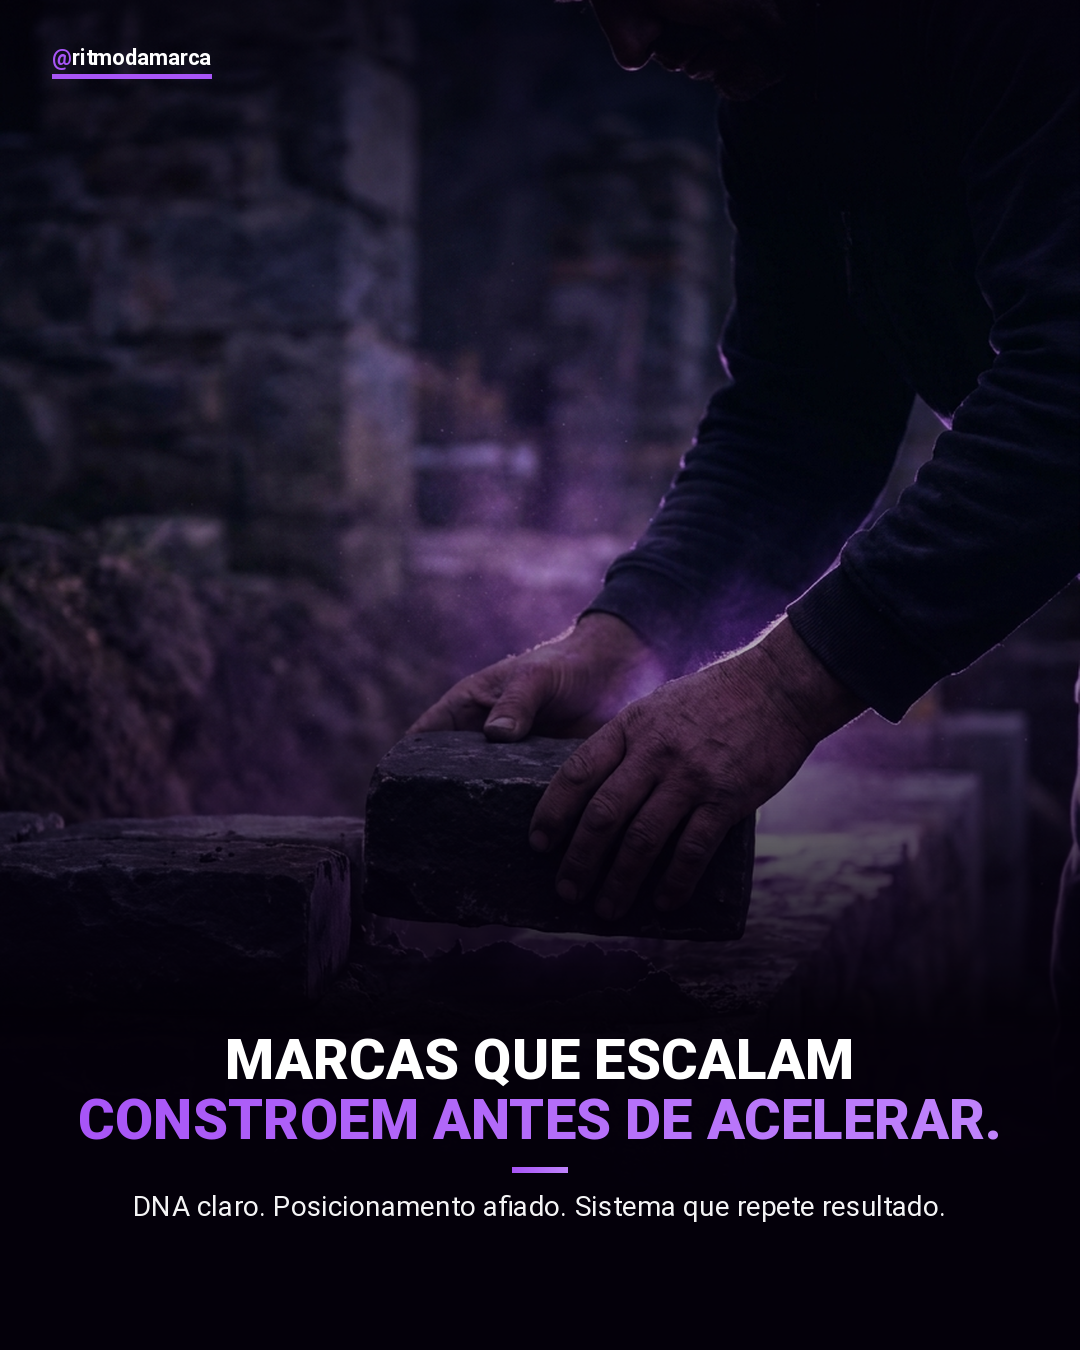
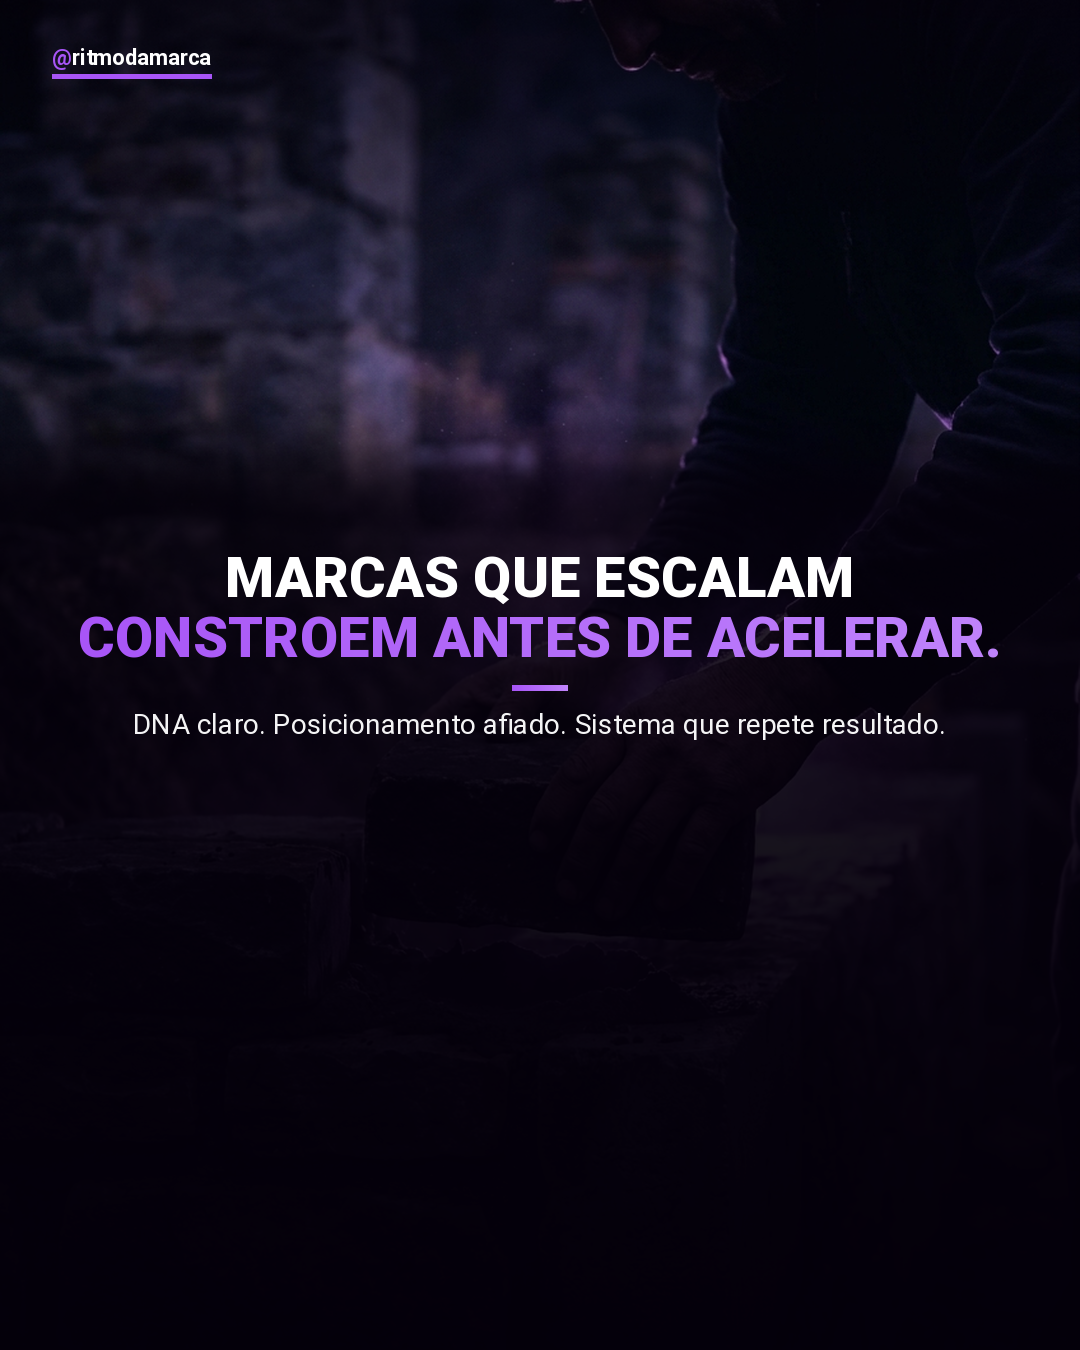
fix: repositiona texto acima e adiciona painel escuro explícito
Texto centralizado verticalmente (~48% do slide), painel escuro
sólido com fade nas bordas garante leitura independente do fundo.

https://claude.ai/code/session_01S8Fw6EGhnFoALdeAFfWcbf

Changed region(s): [[0.0, 0.3111, 1.0, 0.6844], [0.0611, 0.7467, 0.9167, 0.9022], [0.4889, 0.6844, 0.55, 0.7156]]

diff --git a/carrossel-ritmo/build_ritmo.py b/carrossel-ritmo/build_ritmo.py
@@ -122,27 +122,24 @@ def smoky_purple(img, top_s=160, bot_s=255, top_r=320, bot_r=800, blur=60):
     base = img.convert("RGBA"); base.alpha_composite(ov)
     return base.convert("RGB")
 
-def darken_zone(canvas, y_top):
-    """Dois passes: gradiente suave + camada sólida escura na zona de texto."""
-    IH, IW = canvas.size[1], canvas.size[0]
-    t = max(y_top - 200, 0)
+def text_panel(canvas, y_top, y_bot):
+    """Painel escuro sólido com fade nas bordas — garante leitura em qualquer fundo."""
+    IW = canvas.size[0]
+    pad = 80   # quantos px o fade se estende acima de y_top
 
-    # Passe 1: gradiente suave de cima para baixo
-    tz = Image.new("RGBA", canvas.size, (0,0,0,0))
-    dz = ImageDraw.Draw(tz)
-    for iy in range(t, IH):
-        a = int(235 * ((iy-t)/max(1,IH-t))**0.45)
-        dz.line([(0,iy),(IW,iy)], fill=(4,0,10,a))
-    tz = tz.filter(ImageFilter.GaussianBlur(40))
-    base = canvas.convert("RGBA"); base.alpha_composite(tz)
-    canvas = base.convert("RGB")
+    layer = Image.new("RGBA", canvas.size, (0,0,0,0))
+    dl    = ImageDraw.Draw(layer)
 
-    # Passe 2: retângulo sólido com bordas suavizadas na zona do texto
-    pad = Image.new("RGBA", canvas.size, (0,0,0,0))
-    dp  = ImageDraw.Draw(pad)
-    dp.rectangle([0, y_top - 20, IW, IH], fill=(4, 0, 10, 200))
-    pad = pad.filter(ImageFilter.GaussianBlur(24))
-    base = canvas.convert("RGBA"); base.alpha_composite(pad)
+    # área central totalmente sólida
+    dl.rectangle([0, y_top, IW, y_bot], fill=(4, 0, 10, 210))
+
+    # fade de entrada (acima)
+    for iy in range(pad):
+        a = int(210 * (iy / pad) ** 1.6)
+        dl.line([(0, y_top - pad + iy), (IW, y_top - pad + iy)], fill=(4, 0, 10, a))
+
+    layer = layer.filter(ImageFilter.GaussianBlur(18))
+    base  = canvas.convert("RGBA"); base.alpha_composite(layer)
     return base.convert("RGB")
 
 def make_open_slide(bg_path, headlines, subtitle, out_path,
@@ -155,16 +152,20 @@ def make_open_slide(bg_path, headlines, subtitle, out_path,
     d = ImageDraw.Draw(canvas)
 
     h_sz, fnt_h = fit_font(d, headlines, "black", h_start)
-    lead   = int(h_sz * 1.08)
-    fnt_s  = F("regular", 26)
-    sub_ls = wrap(d, subtitle, fnt_s)
-    sub_h  = len(sub_ls) * int(26*1.55)
+    lead    = int(h_sz * 1.08)
+    fnt_s   = F("regular", 28)
+    sub_ls  = wrap(d, subtitle, fnt_s)
+    sub_h   = len(sub_ls) * int(28*1.55)
     badge_h = 60 if badge else 0
     extra_h = 80 if extra_fn else 0
     block_h = badge_h + lead*len(headlines) + 20+5+18 + sub_h + extra_h
-    y = max(H - 120 - block_h, 560)
 
-    canvas = darken_zone(canvas, y)
+    # texto começa no terço inferior da imagem, nunca muito baixo
+    y_start = max(int(H * 0.48) - block_h // 2, 360)
+    y_start = min(y_start, H - 140 - block_h)
+    y = y_start
+
+    canvas = text_panel(canvas, y - 60, H)
     d = ImageDraw.Draw(canvas)
 
     # ── Badge de pilar ─────────────────────────────────────────────
